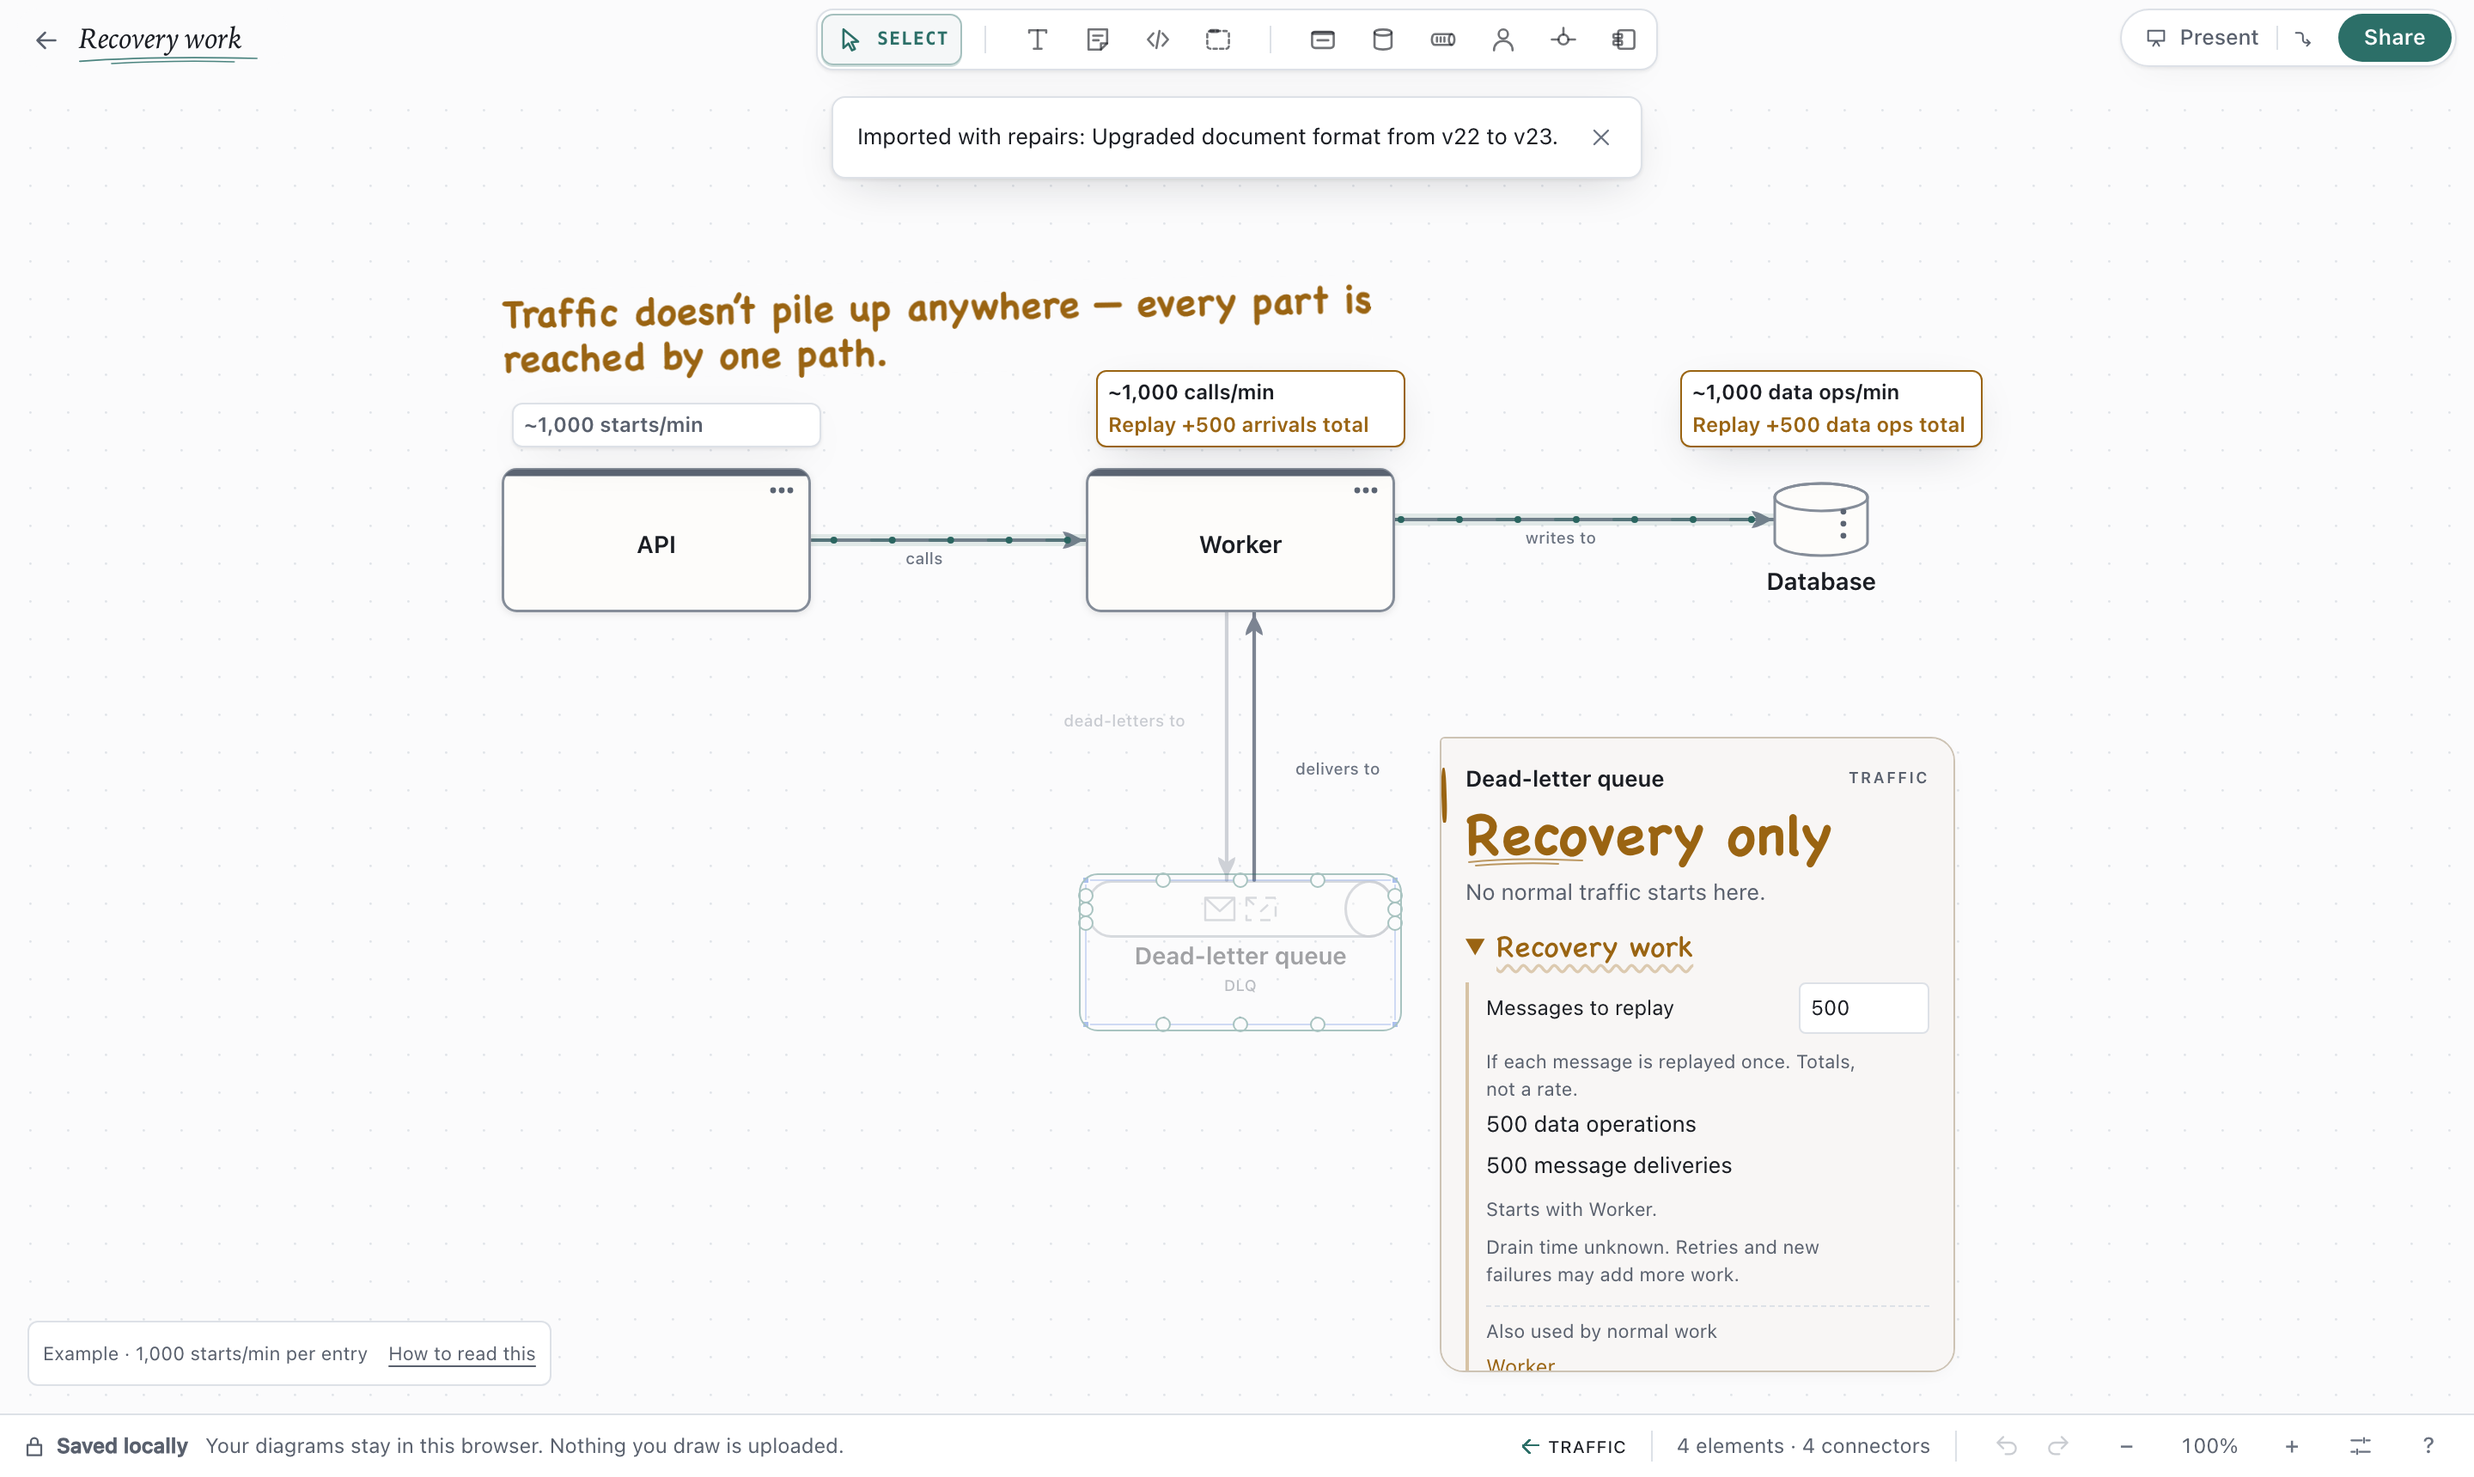
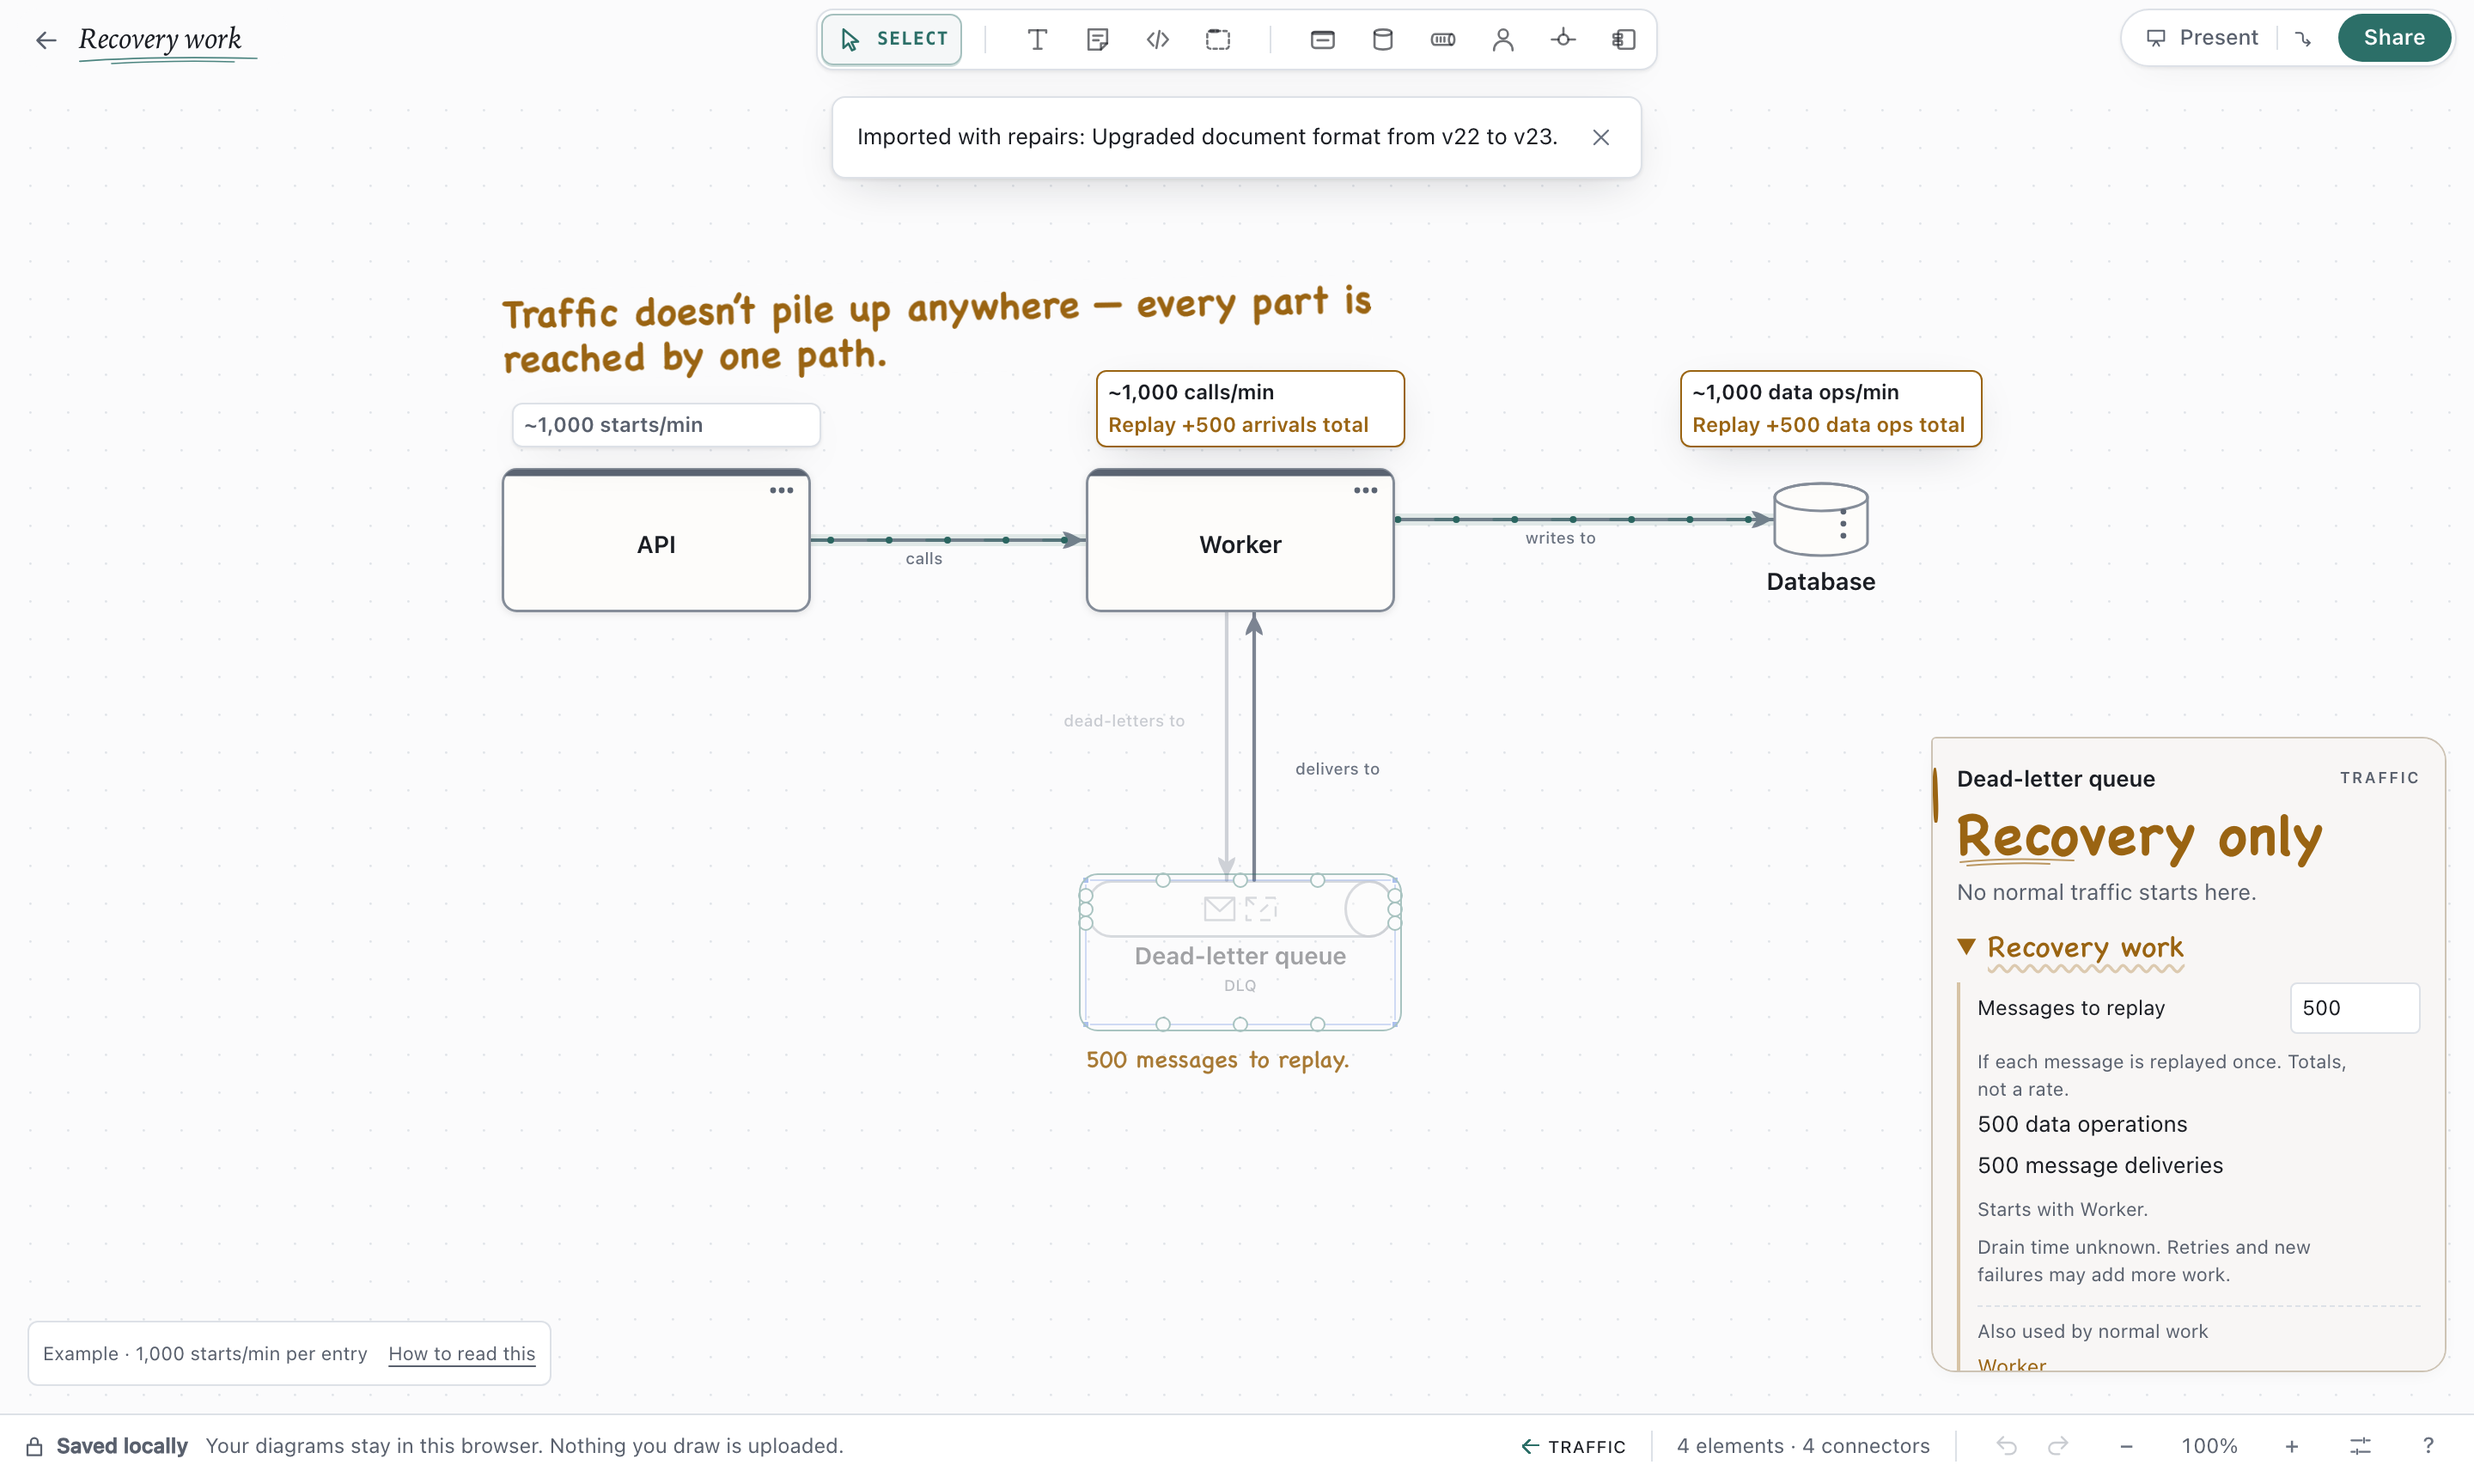
feat(traffic): annotate DLQ replay and support zero messages

diff --git a/src/canvas/TrafficSketches.tsx b/src/canvas/TrafficSketches.tsx
@@ -1,4 +1,4 @@
-import { recoveryArrivals, type recoveryPlan } from '../traffic/recovery';
+import { MAX_REPLAY_MESSAGES, recoveryArrivals, type recoveryPlan } from '../traffic/recovery';
 import { TrafficRecovery } from './TrafficRecovery';
 import { useEffect, useMemo, useRef, useState, type CSSProperties, type KeyboardEvent, type PointerEvent } from 'react';
 import { useReactFlow, useStore } from '@xyflow/react';
@@ -123,6 +123,17 @@ export function TrafficSketches() {
     () => analysis && nodes && drawn && selectedId ? trafficCalloutFor(analysis, nodes, selectedId, drawn.obstacles, availableWidth, scenario?.get(selectedId), edges) : null,
     [analysis, nodes, drawn, selectedId, availableWidth, scenario, edges],
   );
+  const dlqNotes = useMemo(() => {
+    if (!analysis || !nodes) return [];
+    return nodes.filter((node) => node.deliveryRole === 'dead-letter').map((node) => {
+      const hasRoute = analysis.interactions.some((item) => item.from === node.id && item.workload);
+      const count = node.id === selectedId && replay?.plan === content?.recovery ? replay?.count : null;
+      const valid = count !== null && count !== undefined && Number.isSafeInteger(count) && count >= 0 && count <= MAX_REPLAY_MESSAGES;
+      const label = !hasRoute ? 'No replay path drawn.' : !valid ? 'Work waits here until replayed.'
+        : count === 0 ? 'Nothing to replay in this example.' : `${count.toLocaleString('en-US')} ${count === 1 ? 'message' : 'messages'} to replay.`;
+      return { node, label, text: layoutText(label, { font: { stack: 'hand', size: 14, weight: 400 }, maxWidth: 260, lineHeight: 19 }) };
+    });
+  }, [analysis, nodes, selectedId, replay, content]);
   const replayBadges = useMemo(() => {
     if (!analysis || !nodes || !replay || replay.count === null || replay.plan !== content?.recovery) return [];
     const counts = recoveryArrivals(analysis, replay.plan, replay.count);
@@ -144,7 +155,7 @@ export function TrafficSketches() {
       const scale = 1 / camera[2];
       const controlWidth = Math.min(360, canvasWidth - 32);
       const controls = { x: (16 - camera[0]) * scale, y: (canvasHeight - BOTTOM_CLEARANCE - camera[1]) * scale, width: controlWidth * scale, height: BOTTOM_CLEARANCE * scale };
-      const obstacles = [...content.obstacles, controls];
+      const obstacles = [...content.obstacles, controls, ...dlqNotes.map(({ node, text }) => ({ x: node.x, y: node.y + node.height + 10, width: 260, height: text.height }))];
       // Let the field note unfold when there is room; on crowded canvases try shorter scrollable
       // notes before allowing an overlap. Reserve its expanded height to avoid a jump when opened.
       const workHeight = content.work ? content.work.items.reduce((sum, item) => sum + item.height + 6, 0) + content.work.detail.height + 30 : 0;
@@ -161,7 +172,7 @@ export function TrafficSketches() {
       }
       return { ...content, x: at.x, y: at.y, scale, maxHeight };
     },
-    [content, visible, camera, canvasWidth, canvasHeight],
+    [content, visible, camera, canvasWidth, canvasHeight, dlqNotes],
   );
 
   if (!analysis || !nodes || !drawn) return null;
@@ -239,6 +250,11 @@ export function TrafficSketches() {
           )}
         </div>
 
+        {dlqNotes.map(({ node, label, text }) => (
+          <div key={node.id} className="dc-traffic-dlq-note" aria-label={label} style={{ transform: `translate(${node.x}px, ${node.y + node.height + 10}px)`, width: 260 }}>
+            {text.lines.map((line, index) => <span className="dc-traffic-callout-line" key={index}>{line.text}{' '}</span>)}
+          </div>
+        ))}
         {replayBadges.map(({ node, label, text, baseline, recovery }) => (
           <div key={node.id} className={recovery ? "dc-traffic-replay-badge" : "dc-traffic-baseline-chip"} aria-label={baseline ? `${baseline}; ${label}` : label} style={{ fontFamily: familyOf('sans'), transform: `translate(${node.x + 6}px, ${node.y - 12}px)`, width: node.width }}>
             {baseline && <span className="dc-traffic-chip-normal">{baseline}</span>}

diff --git a/src/canvas/TrafficRecovery.tsx b/src/canvas/TrafficRecovery.tsx
@@ -36,20 +36,20 @@ export function TrafficRecovery({ analysis, nodes, plan, width, onExplore }: {
               onBlur={() => { if (pending === '') { setPending('1'); onExplore(1); } }} aria-invalid={!result || undefined} />
           </label>
         )}
-        <p>{text(plan.kind === 'replay' ? 'If each message is replayed once. Totals, not a rate.' : 'For one compensation attempt. Which actions apply depends on what completed before failure.')}</p>
-        {!result ? <p role="alert">{text(`Enter a whole number from 1 to ${MAX_REPLAY_MESSAGES.toLocaleString('en-US')}.`)}</p> : (
+        {count !== 0 && <p>{text(plan.kind === 'replay' ? 'If each message is replayed once. Totals, not a rate.' : 'For one compensation attempt. Which actions apply depends on what completed before failure.')}</p>}
+        {!result ? <p role="alert">{text(`Enter a whole number from 0 to ${MAX_REPLAY_MESSAGES.toLocaleString('en-US')}.`)}</p> : (
           <ul aria-label="Recovery totals" aria-live="polite">
             {result.items.map((item) => <li key={item}>{text(item)}</li>)}
           </ul>
         )}
-        {plan.missing ? <p>{text('Draw a consumer or replay route out of this DLQ to follow its work.')}</p> : (
+        {plan.missing ? <p>{text('Draw a consumer or replay route out of this DLQ to follow its work.')}</p> : count !== 0 && (
           <>
             <p>{text(`Starts with ${plan.targets.slice(0, 3).map(name).join(', ')}${plan.targets.length > 3 ? ` +${plan.targets.length - 3} more` : ''}.`)}</p>
             <p>{text('Drain time unknown. Retries and new failures may add more work.')}</p>
             {result?.uncertain && !result.unknown && <p>{text('Unknown branch shares stay ranges; their peaks may not happen together.')}</p>}
           </>
         )}
-        {plan.shared.length > 0 && (
+        {count !== 0 && plan.shared.length > 0 && (
           <div className="dc-traffic-recovery-shared">
             <p>{text('Also used by normal work')}</p>
             {plan.shared.slice(0, 3).map((id) => (

diff --git a/e2e/traffic.spec.ts b/e2e/traffic.spec.ts
@@ -358,6 +358,7 @@ test('replay batches show total recovery work without editing the diagram or bas
   await recovery.locator('summary').click();
   const count = page.getByRole('textbox', { name: 'Messages to replay' });
   await expect(count).toHaveValue('1');
+  await expect(page.locator('.dc-traffic-dlq-note')).toHaveText('1 message to replay.');
   await count.fill('500');
   await expect(recovery.getByLabel('Recovery totals')).toContainText('500 data operations');
   await expect(recovery.getByLabel('Recovery totals')).toContainText('500 message deliveries');
@@ -371,8 +372,15 @@ test('replay batches show total recovery work without editing the diagram or bas
   await count.press('Backspace');
   await expect(count).toHaveValue('50');
   await count.fill('0');
+  await expect(recovery.getByRole('alert')).toHaveCount(0);
+  await expect(page.locator('.dc-traffic-dlq-note')).toHaveText('Nothing to replay in this example.');
+  await expect(recovery.getByLabel('Recovery totals')).toHaveText('Nothing to replay in this example.');
+  await expect(page.locator('.dc-traffic-replay-badge')).toHaveCount(0);
+  await expect(workerRate).toBeVisible();
+  await count.fill('-1');
   await expect(recovery.getByRole('alert')).toBeVisible();
   await count.fill('500');
+  await expect(page.locator('.dc-traffic-dlq-note')).toHaveText('500 messages to replay.');
   expect(await editorRevision(page)).toBe(revision);
   await page.screenshot({ path: '/tmp/traffic-recovery-preview.png' });
   await recovery.getByRole('button', { name: 'Worker', exact: true }).click();

diff --git a/src/traffic/recovery.ts b/src/traffic/recovery.ts
@@ -53,7 +53,8 @@ export function recoveryPlan(analysis: TrafficAnalysis, nodes: readonly DraftNod
 }
 
 export function recoveryWork(analysis: TrafficAnalysis, plan: NonNullable<ReturnType<typeof recoveryPlan>>, messages = 1) {
-  if (!Number.isSafeInteger(messages) || messages < 1 || messages > MAX_REPLAY_MESSAGES) return null;
+  if (!Number.isSafeInteger(messages) || messages < 0 || messages > MAX_REPLAY_MESSAGES) return null;
+  if (plan.kind === 'replay' && messages === 0) return { items: ['Nothing to replay in this example.'], uncertain: false, unknown: false };
   if (plan.missing) return { items: ['No replay path drawn.'], uncertain: true, unknown: true };
   return workPerArrival({ ...analysis, interactions: plan.interactions }, plan.start, plan.kind === 'replay' ? messages : 1);
 }
@@ -61,7 +62,7 @@ export function recoveryWork(analysis: TrafficAnalysis, plan: NonNullable<Return
 /** Per-shape batch arrivals for the temporary canvas overlay. Unknown totals never become badges. */
 export function recoveryArrivals(analysis: TrafficAnalysis, plan: NonNullable<ReturnType<typeof recoveryPlan>>, messages: number) {
   const work = recoveryWork(analysis, plan, messages);
-  if (!work || work.unknown) return new Map<string, { definite: number; possible: number }>();
+  if (messages === 0 || !work || work.unknown) return new Map<string, { definite: number; possible: number }>();
   const outgoing = new Map<string, TrafficInteraction[]>();
   for (const item of plan.interactions) {
     const list = outgoing.get(item.from) ?? [];

diff --git a/tests/traffic/recovery.test.ts b/tests/traffic/recovery.test.ts
@@ -22,6 +22,8 @@ describe('recovery work', () => {
     expect(recoveryWork(analysis, plan)!.items).toEqual(['1 data operation', '1 message delivery']);
     expect(recoveryWork(analysis, plan, 500)!.items).toEqual(['500 data operations', '500 message deliveries']);
     expect(plan.shared).toEqual(['worker', 'db']);
+    expect(recoveryWork(analysis, plan, 0)!.items).toEqual(['Nothing to replay in this example.']);
+    expect(recoveryArrivals(analysis, plan, 0).size).toBe(0);
     expect(recoveryArrivals(analysis, plan, 1000).get('db')).toEqual({ definite: 1000, possible: 1000 });
     expect(recoveryArrivals(analysis, plan, 1000).get('worker')).toEqual({ definite: 1000, possible: 1000 });
     expect(trafficScenario(analysis)).toEqual(before);
@@ -66,6 +68,6 @@ describe('recovery work', () => {
     expect(recoveryWork(analysis, plan, 500)!.unknown).toBe(true);
     expect(recoveryArrivals(analysis, plan, 500).size).toBe(0);
     expect(recoveryWork({ ...analysis, truncated: true }, plan)!.unknown).toBe(true);
-    for (const count of [0, -1, 1.5, NaN, Infinity, 1_000_001]) expect(recoveryWork(analysis, plan, count)).toBeNull();
+    for (const count of [-1, 1.5, NaN, Infinity, 1_000_001]) expect(recoveryWork(analysis, plan, count)).toBeNull();
   });
 });

diff --git a/src/styles/canvas.css b/src/styles/canvas.css
@@ -6862,3 +6862,12 @@
 .dc-canvas:has(.dc-traffic-replay-badge) .dc-traffic-badge {
   visibility: hidden;
 }
+
+.dc-traffic-dlq-note {
+  position: absolute;
+  color: var(--dc-caution);
+  font-size: 14px;
+  line-height: 19px;
+  pointer-events: none;
+  opacity: 0.85;
+}

diff --git a/docs/guides/traffic.md b/docs/guides/traffic.md
@@ -147,7 +147,9 @@ Compensation remains a range because the diagram cannot tell which earlier steps
 Retries and new failures can add more work; loops have no finite total. The optional count is local,
 resets when you select another shape, and never edits the diagram. While the replay section is open,
 affected shapes include **Replay +… total** in their top traffic chip, alongside the normal rate.
-The replay total updates with the count. Normal RPM
+The replay total updates with the count. A small note beside the DLQ describes the example.
+Enter zero to show “Nothing to replay in this example” and hide extra replay numbers; this does
+not claim the live queue is empty. Normal RPM
 stays unchanged; a batch size does not establish a replay rate.
 
 ![A replay batch and its downstream recovery work](../media/guides/traffic-recovery.png)

diff --git a/CHANGELOG.md b/CHANGELOG.md
@@ -12,6 +12,9 @@ The retired VS Code extension has [its own changelog](https://github.com/acltabo
 
 #### Added
 
+- A quiet note beside each DLQ describes its replay scenario. Zero messages clears the extra
+  replay numbers without implying a live queue is empty.
+
 - Traffic’s Database work note separates illustrative logical reads and writes from drawn connectors,
   keeping mixed routes combined. Replay batches now show extra work on affected canvas shapes.
 
